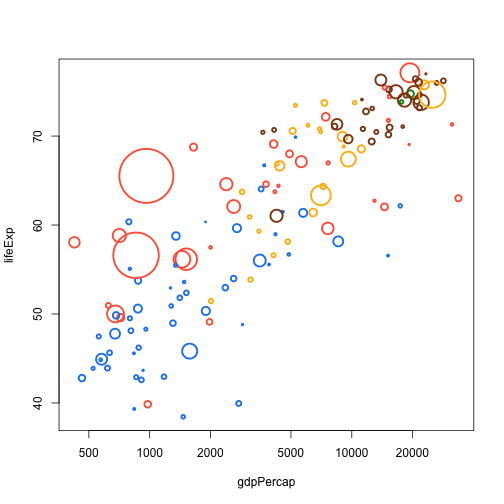
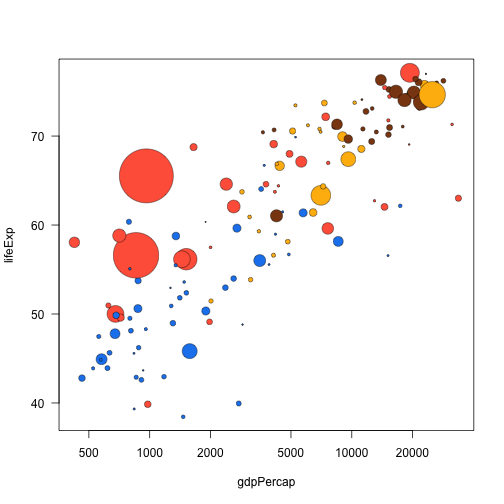
included curly brackets in all functions for consistency; changed colour scheme of plot examples

diff --git a/lessons/10-functions/index.md b/lessons/10-functions/index.md
@@ -183,7 +183,7 @@ plot(lifeExp ~ gdpPercap, data.1982, log="x", cex=cex)
 ![plot of chunk scaled_manually_sqrt](figure/scaled_manually_sqrt.png)
 
 
-By this point, it's probably apparent that if we have lots of things like that flopping around in our code, things are going to messy and hard to read quickly.  Some way of taking a vector of numbers and *rescaling* them to lie within some new range is called for.
+By this point, it's probably apparent that if we have lots of things like that flopping around in our code, things are going to get messy and hard to read quickly. Some way of taking a vector of numbers and *rescaling* them to lie within some new range is called for.
 
 
 ```r
@@ -244,7 +244,7 @@ captures intent better.
 ```r
 col <- colour.by.category(data.1982$continent, col.table)
 cex <- rescale(sqrt(data.1982$pop), c(0.2, 10))
-plot(lifeExp ~ gdpPercap, data.1982, log="x", cex=cex, col=col, pch=21, lwd=2.5)
+plot(lifeExp ~ gdpPercap, data.1982, log="x", cex=cex, col='black', bg=col, pch=21, lwd=0.5, las=1)
 ```
 
 ![plot of chunk scaled_coloured](figure/scaled_coloured.png)
@@ -262,7 +262,7 @@ add.trend.line <- function(x, y, d, ...) {
 ```
 
 ```r
-plot(lifeExp ~ gdpPercap, data.1982, log="x", cex=cex, col=col, pch=21, lwd=2.5)
+plot(lifeExp ~ gdpPercap, data.1982, log="x", cex=cex, col='black', bg=col, pch=21, lwd=0.5, las=1)
 add.trend.line("gdpPercap", "lifeExp", data.1982)
 add.trend.line("gdpPercap", "lifeExp", data.1982, lwd=2)
 add.trend.line("gdpPercap", "lifeExp", data.1982, lwd=2, lty=2, col="blue")
@@ -275,7 +275,7 @@ Now that we have this function, we can do all sorts of fun things with it:
 
 
 ```r
-plot(lifeExp ~ gdpPercap, data.1982, log="x", cex=cex, col=col, pch=21)
+plot(lifeExp ~ gdpPercap, data.1982, log="x", cex=cex, col='black', bg=col, pch=21, lwd=0.5, las=1)
 add.trend.line("gdpPercap", "lifeExp", data.1982[data.1982$continent == "Asia",], col=col.table["Asia"])
 add.trend.line("gdpPercap", "lifeExp", data.1982[data.1982$continent == "Africa",], col=col.table["Africa"])
 add.trend.line("gdpPercap", "lifeExp", data.1982[data.1982$continent == "Europe",], col=col.table["Europe"])
@@ -290,14 +290,15 @@ Which still looks a bit ugly.  Could be nicer with another function:
 
 
 ```r
-add.continent.trend.line <- function(x, y, d, continent, col.table, ...)
+add.continent.trend.line <- function(x, y, d, continent, col.table, ...) {
   add.trend.line(x, y, d[d$continent == continent,], col=col.table[continent], ...)
+}
 ```
 
 
 
 ```r
-plot(lifeExp ~ gdpPercap, data.1982, log="x", cex=cex, col=col, pch=21)
+plot(lifeExp ~ gdpPercap, data.1982, log="x", cex=cex, col='black', bg=col, pch=21, lwd=0.5, las=1)
 add.continent.trend.line("gdpPercap", "lifeExp", data.1982, "Asia", col.table)
 add.continent.trend.line("gdpPercap", "lifeExp", data.1982, "Africa", col.table)
 add.continent.trend.line("gdpPercap", "lifeExp", data.1982, "Europe", col.table)
@@ -312,9 +313,10 @@ For throwaways like this we might use *global variables* but beware here.  This 
 
 
 ```r
-f <- function(continent)
+f <- function(continent) {
   add.continent.trend.line("gdpPercap", "lifeExp", data.1982, continent, col.table)
-plot(lifeExp ~ gdpPercap, data.1982, log="x", cex=cex, col=col, pch=21)
+}
+plot(lifeExp ~ gdpPercap, data.1982, log="x", cex=cex, col='black', bg=col, pch=21, lwd=0.5, las=1)
 f("Africa")
 f("Asia")
 f("Europe")
@@ -341,10 +343,10 @@ add.trend.line <- function(x, y, d, ...) {
 When we rerun this, we now get nicely clipped lines; but we didn't change anything else!  This is one of the big benefits of working with some level of abstraction.
 
 ```r
-f <- function(continent)
+f <- function(continent) {
   add.continent.trend.line("gdpPercap", "lifeExp", data.1982, continent, col.table)
-plot(lifeExp ~ gdpPercap, data.1982, log="x", cex=cex, col=col, pch=21)
-f("Africa")
+}
+plot(lifeExp ~ gdpPercap, data.1982, log="x", cex=cex, col='black', bg=col, pch=21, lwd=0.5, las=1)f("Africa")
 f("Asia")
 f("Europe")
 f("Americas")
